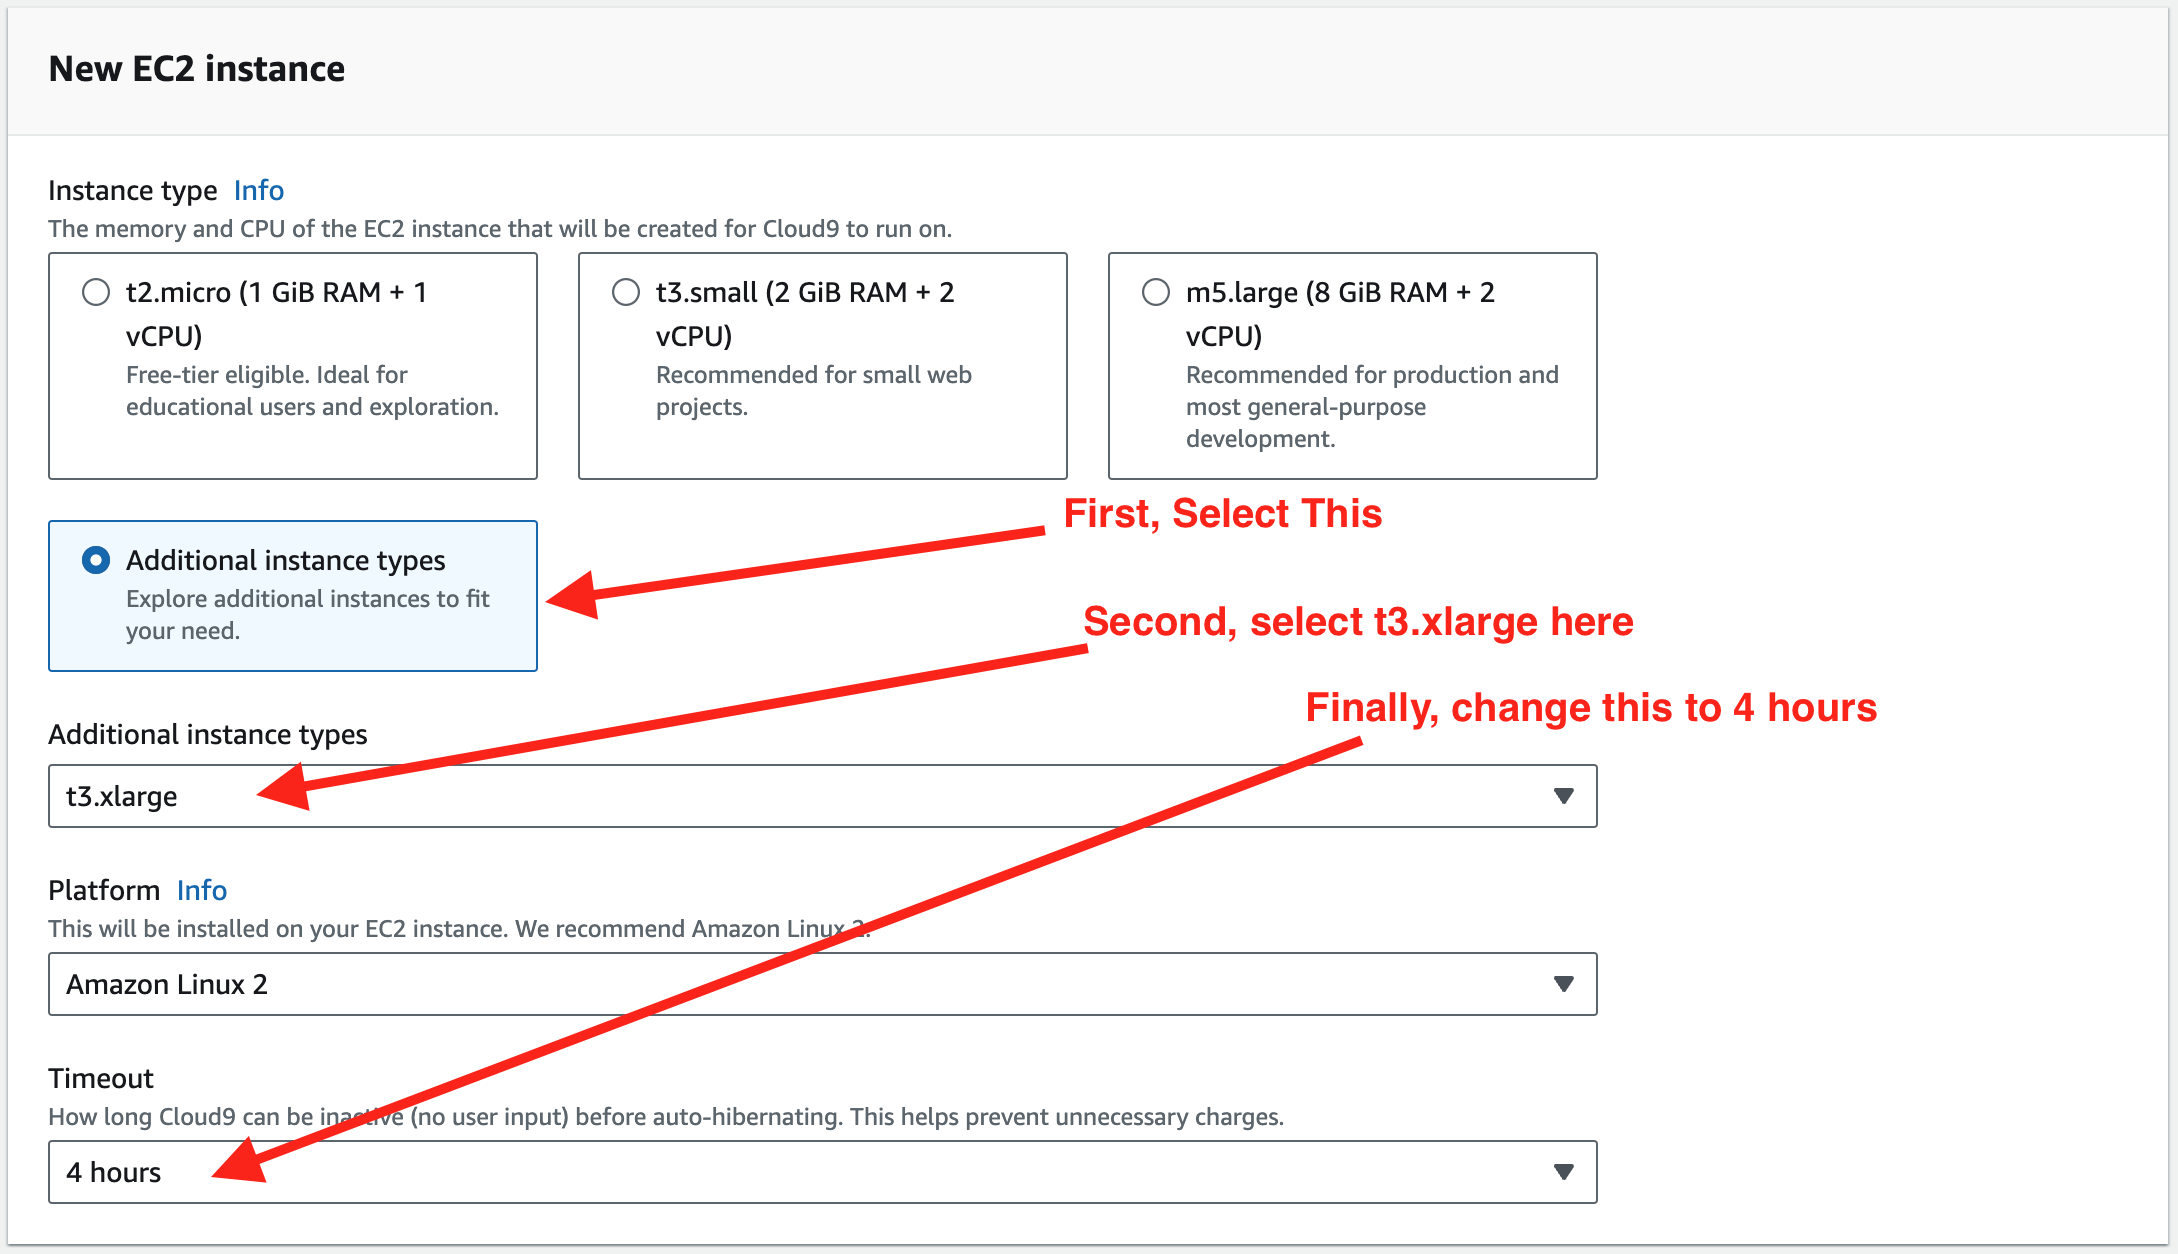
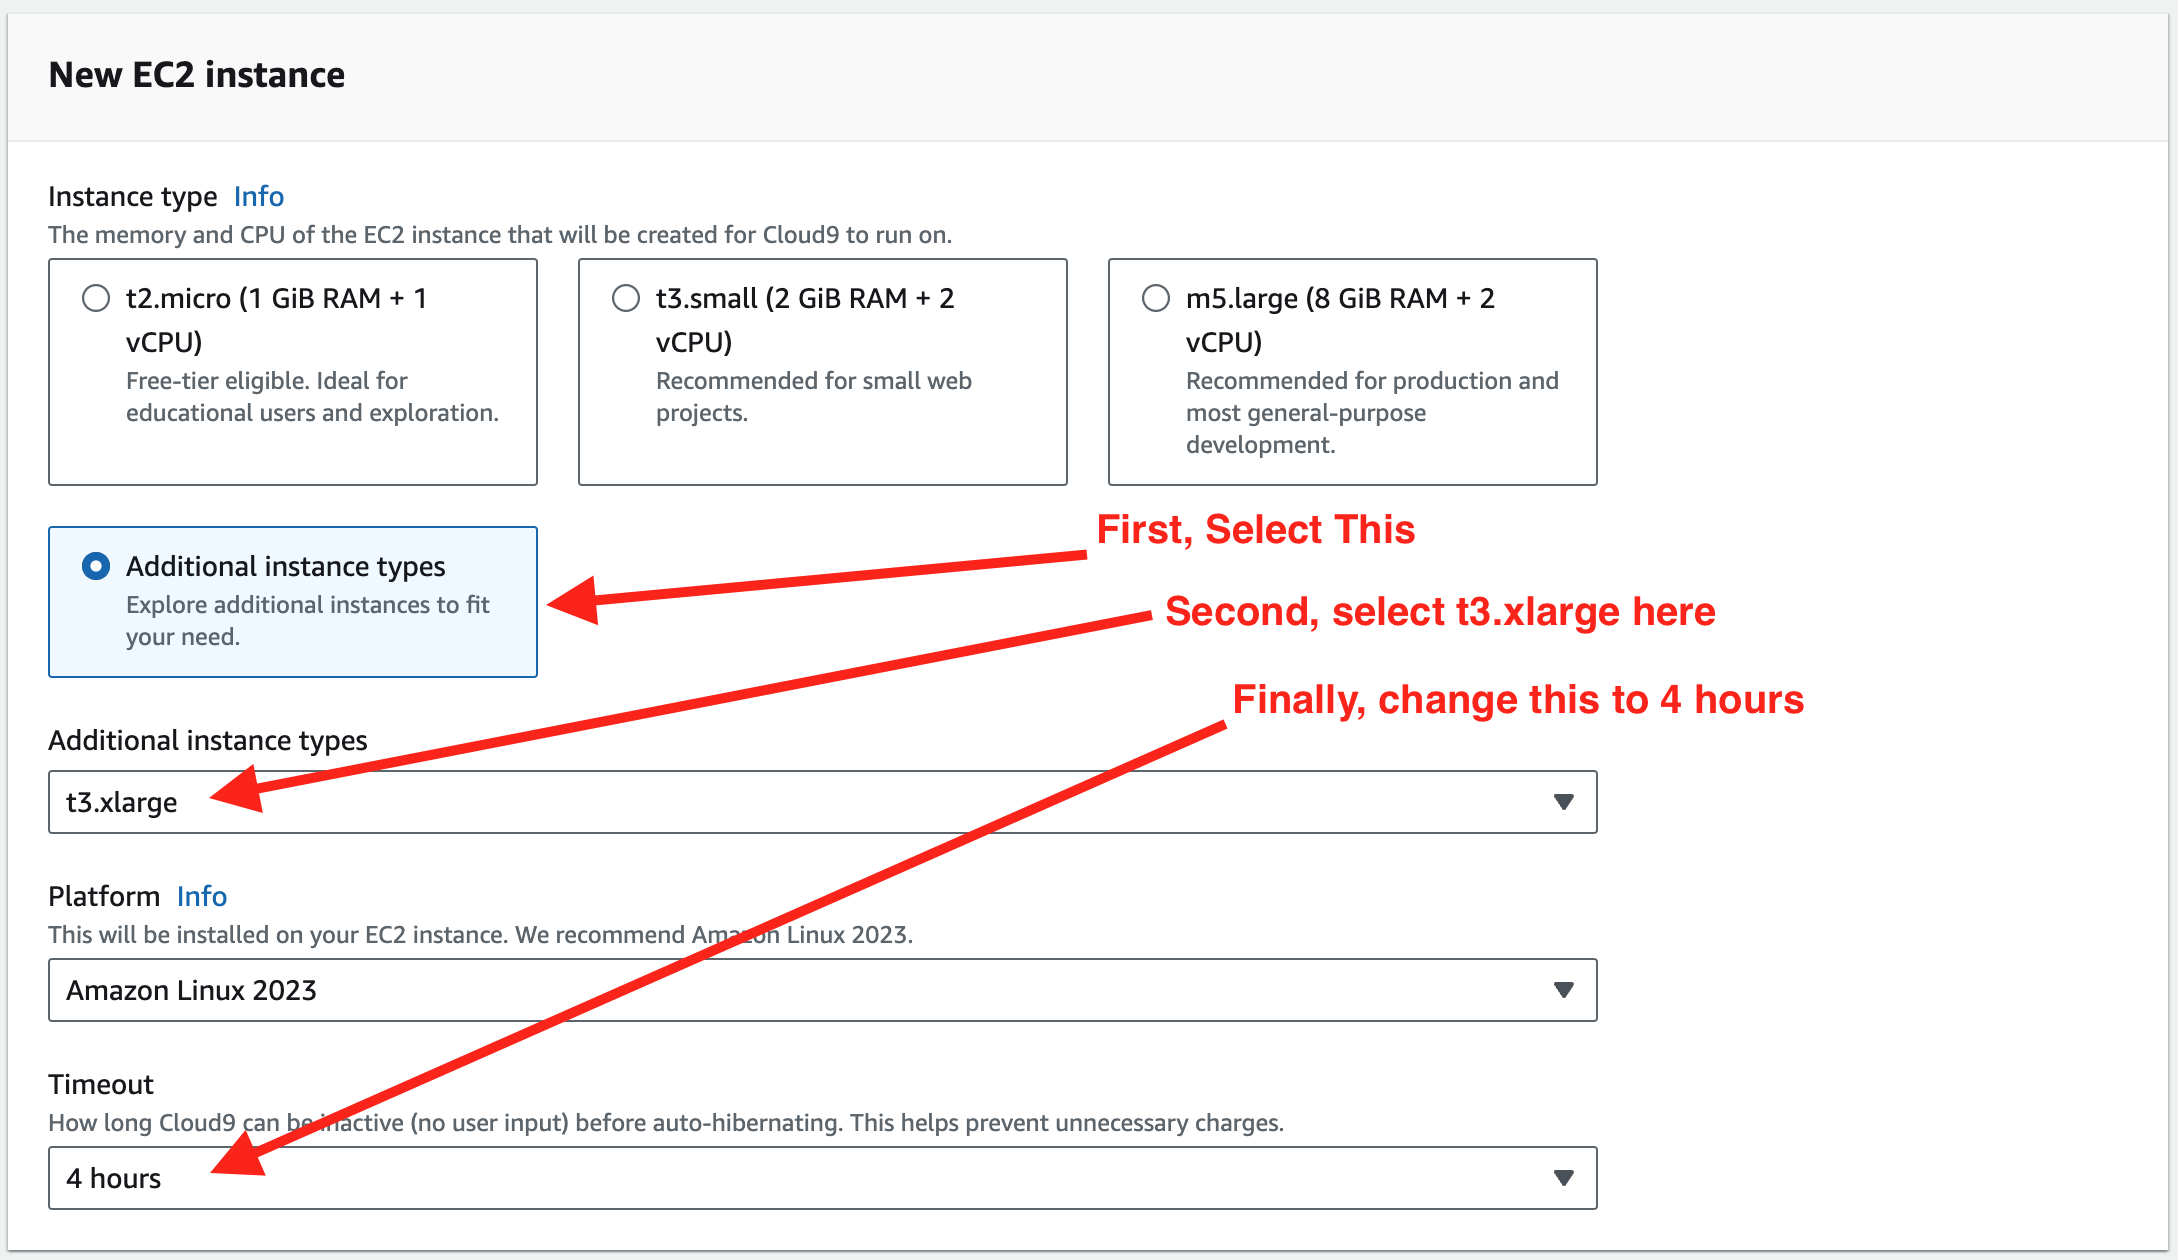
feat: update to AL2023 and allow testing individual labs (#46)

diff --git a/tests/test_labs.py b/tests/test_labs.py
@@ -38,6 +38,7 @@ std_out.addFilter(lambda x: x.levelno < logging.ERROR)
 LOG.addHandler(std_err)
 LOG.addHandler(std_out)
 
+
 @dataclass
 class Lab:
     getting_started: list[str]
@@ -54,8 +55,18 @@ def get_labs() -> list[Path]:
     time.sleep(1)
 
     labs_dir: Path = Path("build/labs/").absolute()
-    labs: list[Path] = list(labs_dir.glob("**/[!index]*.html"))
-    return labs
+
+    if "LAB" in os.environ:
+        lab: Path = labs_dir.joinpath(f"{os.environ['LAB']}.html")
+
+        if lab.exists():
+            return [lab]
+
+        LOG.error(f"Failed to find the lab {lab}")
+        sys.exit(1)
+    else:
+        labs: list[Path] = list(labs_dir.glob("**/[!index]*.html"))
+        return labs
 
 
 def run_terraform(*, lab: Lab, command: str) -> Tuple[str, dict[str, str]]:
@@ -71,17 +82,30 @@ def run_terraform(*, lab: Lab, command: str) -> Tuple[str, dict[str, str]]:
         sys.exit(1)
 
     # This creates the final config that was used for rendering, which has defaults added where needed
-    render_config, terraform_module = render_lab_terraform(lab=lab, config_update=lab.config)
+    render_config, terraform_module = render_lab_terraform(
+        lab=lab, config_update=lab.config
+    )
 
     # Run the terraform command
-    terraform_commands = [["terraform", "init"], ["terraform", command, "-auto-approve"]]
+    terraform_commands = [
+        ["terraform", "init"],
+        ["terraform", command, "-auto-approve"],
+    ]
     for tf_command in terraform_commands:
         tf_command_string = " ".join(tf_command)
         try:
             LOG.info(f"{lab.file.stem}: Running {tf_command_string}...")
-            subprocess.run(tf_command, capture_output=True, text=True, cwd=terraform_module, check=True)
+            subprocess.run(
+                tf_command,
+                capture_output=True,
+                text=True,
+                cwd=terraform_module,
+                check=True,
+            )
         except subprocess.CalledProcessError as e:
-            LOG.error(f"{lab.file.stem}: Failed to run {tf_command_string} with the output of {e.stdout} and the error of {e.stderr}")
+            LOG.error(
+                f"{lab.file.stem}: Failed to run {tf_command_string} with the output of {e.stdout} and the error of {e.stderr}"
+            )
             handle_failed_terraform(lab=lab)
             sys.exit(1)
 
@@ -96,7 +120,7 @@ def get_instance_id(*, lab: Lab, terraform_module: Path) -> str:
     """
     instance_id_file = terraform_module.joinpath("instance_id")
     try:
-        instance_id = instance_id_file.read_text().rstrip('\n')
+        instance_id = instance_id_file.read_text().rstrip("\n")
     except FileNotFoundError:
         LOG.error(f"{lab.file.stem}: Failed to find the file {instance_id_file}")
         sys.exit(1)
@@ -122,7 +146,7 @@ def sanitize_code_block(*, code_block: str) -> str:
         return sanitized_code_block
 
     # Reduce multiple newlines to a single newline
-    while '\n\n' in sanitized_code_block:
+    while "\n\n" in sanitized_code_block:
         sanitized_code_block = sanitized_code_block.replace("\n\n", "\n")
 
     # Replace newlines with && chaining for the SSM command
@@ -136,18 +160,25 @@ def sanitize_code_block(*, code_block: str) -> str:
     return sanitized_code_block
 
 
-def run_commands(*, lab: Lab, type: str, commands: list[str], instance_id: str, render_config: dict[str, str]) -> bool:
+def run_commands(
+    *,
+    lab: Lab,
+    type: str,
+    commands: list[str],
+    instance_id: str,
+    render_config: dict[str, str],
+) -> bool:
     """
     Run the commands on the EC2 instance via SSM
 
     Return True for success and False for a failure
     """
-    LOG.info(f"Running the {type} code blocks for lab {lab.file.stem} on the EC2 {instance_id}...")
+    LOG.info(
+        f"Running the {type} code blocks for lab {lab.file.stem} on the EC2 {instance_id}..."
+    )
 
     if not commands:
-        LOG.error(
-                f"{lab.file.stem}: Passed an empty list of commands to run"
-        )
+        LOG.error(f"{lab.file.stem}: Passed an empty list of commands to run")
         return False
 
     success: bool = False
@@ -163,10 +194,20 @@ def run_commands(*, lab: Lab, type: str, commands: list[str], instance_id: str, 
         sanitized_code_block = sanitize_code_block(code_block=code_block)
         # TODO: Add `set -u` back in once "/home/ec2-user/.rvm/scripts/functions/rvmrc_env: line 66: rvm_saved_env: unbound variable" is fixed in Amazon Linux
         # ~related to https://github.com/rvm/rvm/issues/4694
-        command: str = f"export user=$({get_user_command}) && su - ${{user}} --shell /bin/bash -c 'set -eo pipefail && cd && {sanitized_code_block}'"
+        command: str = (
+            f"export user=$({get_user_command}) && su - ${{user}} --shell /bin/bash -c 'set -eo pipefail && cd && {sanitized_code_block}'"
+        )
         LOG.debug(f"{lab.file.stem}: Running {command}")
-        response = ssm_client.send_command(DocumentName="AWS-RunShellScript", Parameters={"commands": [command]}, InstanceIds=[instance_id])
-        success = wait_for_completion(ssm_client=ssm_client, command_id=response["Command"]["CommandId"], instance_id=instance_id)
+        response = ssm_client.send_command(
+            DocumentName="AWS-RunShellScript",
+            Parameters={"commands": [command]},
+            InstanceIds=[instance_id],
+        )
+        success = wait_for_completion(
+            ssm_client=ssm_client,
+            command_id=response["Command"]["CommandId"],
+            instance_id=instance_id,
+        )
 
         if not success:
             LOG.error(f"{lab.file.stem}: Failed running {command}")
@@ -176,32 +217,46 @@ def run_commands(*, lab: Lab, type: str, commands: list[str], instance_id: str, 
     return True
 
 
-def wait_for_completion(*, ssm_client: boto3.client, command_id: str, instance_id: str) -> bool:
+def wait_for_completion(
+    *, ssm_client: boto3.client, command_id: str, instance_id: str
+) -> bool:
     """
     Wait for the provided command to complete and return whether or not it was successful
     """
-    LOG.debug(f"Waiting for the command {command_id} to complete on the EC2 {instance_id}...")
+    LOG.debug(
+        f"Waiting for the command {command_id} to complete on the EC2 {instance_id}..."
+    )
     success: bool = False
 
     while True:
         response = ssm_client.list_commands(CommandId=command_id)
         status = response["Commands"][0]["Status"]
         if status == "Success":
-            LOG.debug(f"The run-command {command_id} completed successfully on the EC2 {instance_id}...")
+            LOG.debug(
+                f"The run-command {command_id} completed successfully on the EC2 {instance_id}..."
+            )
             success = True
             break
         elif status == "Failed":
-            ssm_client.get_command_invocation(CommandId=command_id, InstanceId=instance_id)
-            invocation_response = ssm_client.get_command_invocation(CommandId=command_id, InstanceId=instance_id)
+            ssm_client.get_command_invocation(
+                CommandId=command_id, InstanceId=instance_id
+            )
+            invocation_response = ssm_client.get_command_invocation(
+                CommandId=command_id, InstanceId=instance_id
+            )
             stdout = invocation_response.get("StandardOutputContent")
             stderr = invocation_response.get("StandardErrorContent")
             LOG.error(f"stderr: {stderr}, stdout: {stdout}")
-            LOG.error(f"The run-command {command_id} failed on the EC2 {instance_id}, see above for the stdout and stderr...")
+            LOG.error(
+                f"The run-command {command_id} failed on the EC2 {instance_id}, see above for the stdout and stderr..."
+            )
 
             success = False
             break
         else:
-            LOG.debug(f"The run-command {command_id} is still running on the EC2 {instance_id}...")
+            LOG.debug(
+                f"The run-command {command_id} is still running on the EC2 {instance_id}..."
+            )
             time.sleep(2)
 
     return success
@@ -214,9 +269,7 @@ def handle_failed_terraform(*, lab: Lab, instance_id: str = "") -> None:
     if os.environ.get("CI") == "true" or not instance_id:
         run_terraform(lab=lab, command="destroy")
     else:
-        LOG.warning(
-            f"Leaving the EC2 {instance_id} up for troubleshooting..."
-        )
+        LOG.warning(f"Leaving the EC2 {instance_id} up for troubleshooting...")
 
 
 def get_code_from_commands(*, lab_path: Path) -> Lab:
@@ -246,7 +299,9 @@ def get_code_from_commands(*, lab_path: Path) -> Lab:
 
         # Identify if there's a getting started override for testing
         getting_started: list[str] = []
-        getting_started_override: bool = page.locator(".overrideGettingStarted").count() > 0
+        getting_started_override: bool = (
+            page.locator(".overrideGettingStarted").count() > 0
+        )
         if getting_started_override:
             LOG.debug("Detected a getting started override, using it...")
             getting_started.append(page.inner_text(".overrideGettingStarted"))
@@ -269,30 +324,41 @@ def get_code_from_commands(*, lab_path: Path) -> Lab:
             clipboard_content: str = pyperclip.paste()
 
             # Get the parent's parent element
-            parent_element = button.evaluate_handle("button => button.parentElement").evaluate_handle("el => el.parentElement")
-            classes = parent_element.get_attribute('class').split()
+            parent_element = button.evaluate_handle(
+                "button => button.parentElement"
+            ).evaluate_handle("el => el.parentElement")
+            classes = parent_element.get_attribute("class").split()
 
             # Skip the code blocks that have a class of skip-tests
-            if 'skip-tests' in classes:
-                LOG.warning(f"Skipping a code block in {lab_path.stem} because it has a class of skip-tests...")
+            if "skip-tests" in classes:
+                LOG.warning(
+                    f"Skipping a code block in {lab_path.stem} because it has a class of skip-tests..."
+                )
                 continue
 
             if getting_started_override:
                 # If there was an getting started override, add everything that isn't getting-started as a lab command
-                if 'getting-started' not in classes:
+                if "getting-started" not in classes:
                     lab_commands.append(clipboard_content)
             else:
                 # Check if the parent element has a class of getting-started
-                if 'getting-started' in classes:
+                if "getting-started" in classes:
                     getting_started.append(clipboard_content)
                 else:
                     lab_commands.append(clipboard_content)
 
-    lab = Lab(getting_started=getting_started, lab_commands=lab_commands, config=config, file=lab_path)
+    lab = Lab(
+        getting_started=getting_started,
+        lab_commands=lab_commands,
+        config=config,
+        file=lab_path,
+    )
     return lab
 
 
-def render_lab_terraform(*, lab: Lab, config_update: dict[str, str]) -> Tuple[dict[str, str], Path]:
+def render_lab_terraform(
+    *, lab: Lab, config_update: dict[str, str]
+) -> Tuple[dict[str, str], Path]:
     """
     Render the lab-specific terraform live
 
@@ -305,10 +371,18 @@ def render_lab_terraform(*, lab: Lab, config_update: dict[str, str]) -> Tuple[di
     terraform_live = terraform_module.joinpath(lab.file.stem).with_suffix(".tf")
 
     # Set a default config, and then update it with the provided config
-    render_config = {"cloud9_name": lab.file.stem, "cloud9_instance_type": "t3.xlarge", "region": "us-east-1"}
+    render_config = {
+        "cloud9_name": lab.file.stem,
+        "cloud9_instance_type": "t3.xlarge",
+        "region": "us-east-1",
+    }
     render_config.update(config_update)
 
-    render_jinja2(template_file=terraform_template, config=render_config, output_file=terraform_live)
+    render_jinja2(
+        template_file=terraform_template,
+        config=render_config,
+        output_file=terraform_live,
+    )
 
     return render_config, terraform_module
 
@@ -369,9 +443,21 @@ def test_lab(lab: Lab) -> None:
     instance_id, render_config = run_terraform(lab=lab, command="apply")
 
     if lab.getting_started:
-        assert run_commands(lab=lab, type="getting started", commands=lab.getting_started, instance_id=instance_id, render_config=render_config)
+        assert run_commands(
+            lab=lab,
+            type="getting started",
+            commands=lab.getting_started,
+            instance_id=instance_id,
+            render_config=render_config,
+        )
     else:
         LOG.error(f"No getting started code blocks for lab {lab} detected...")
         assert False
 
-    assert run_commands(lab=lab, type="lab commands", commands=lab.lab_commands, instance_id=instance_id, render_config=render_config)
+    assert run_commands(
+        lab=lab,
+        type="lab commands",
+        commands=lab.lab_commands,
+        instance_id=instance_id,
+        render_config=render_config,
+    )

diff --git a/README.md b/README.md
@@ -8,6 +8,9 @@ Developing against this project assumes that you have the docker daemon running,
 Run `task init` to setup your local environment, `task build` to build the project, and `task test` to test it. You can run `task open` to open the root
 `index.html` in your local browser.
 
+If you only want to test a single lab, set the `LAB` environment variable; more on this in the [tests README](./tests/README.md#configuring-tests). The same
+pattern existts for `task destroy`.
+
 If you'd like to turn debug logging on, set your `LOG_LEVEL` environment variable to `DEBUG`.
 
 To autobuild as files change, run `nohup task -w build >/dev/null 2>&1 &` and clean up the job with `pkill -f 'task -w build'`

diff --git a/tests/TODO.future_tests.md b/tests/TODO.future_tests.md
@@ -1,8 +1,7 @@
 # Future testing improvements
 
+1. Allow the region to be specified when testing.
 1. Add pipeline support (headless=True).
 1. Fix it so we don't need to skip any tests (currently using class: skip-tests for interactive, multi-code block step by steps). Run goss/dgoss remotely?
-1. Allow testing a specific lab instead of all of them. `task test -- policy-as-code`
 1. Improve the cleanup/teardown to be more pytest native.
 1. Add tests inline, hidden in the labs. Extract and then run them interleaved with the visible code blocks. Maybe goss/dgoss?
-1. Allow the region to be specified when testing.

diff --git a/tests/README.md b/tests/README.md
@@ -18,6 +18,16 @@ How it works:
     1. Run the lab_commands code blocks in the Cloud9 EC2 instance
 1. Restore the host clipboard
 
+## Configuring tests
+
+If you only want to run a specific test, set the variable `LAB` to the name of that tests (i.e. the base name of the lab file under `build/labs/`), i.e.:
+
+```bash
+LAB=container-security-101 task test
+```
+
+The same pattern exists for `task destroy`.
+
 ## Lessons Learned
 
 The AWS cli is only setup upon opening the Cloud9 console, so we need to manually get and set the region for ansible's use
